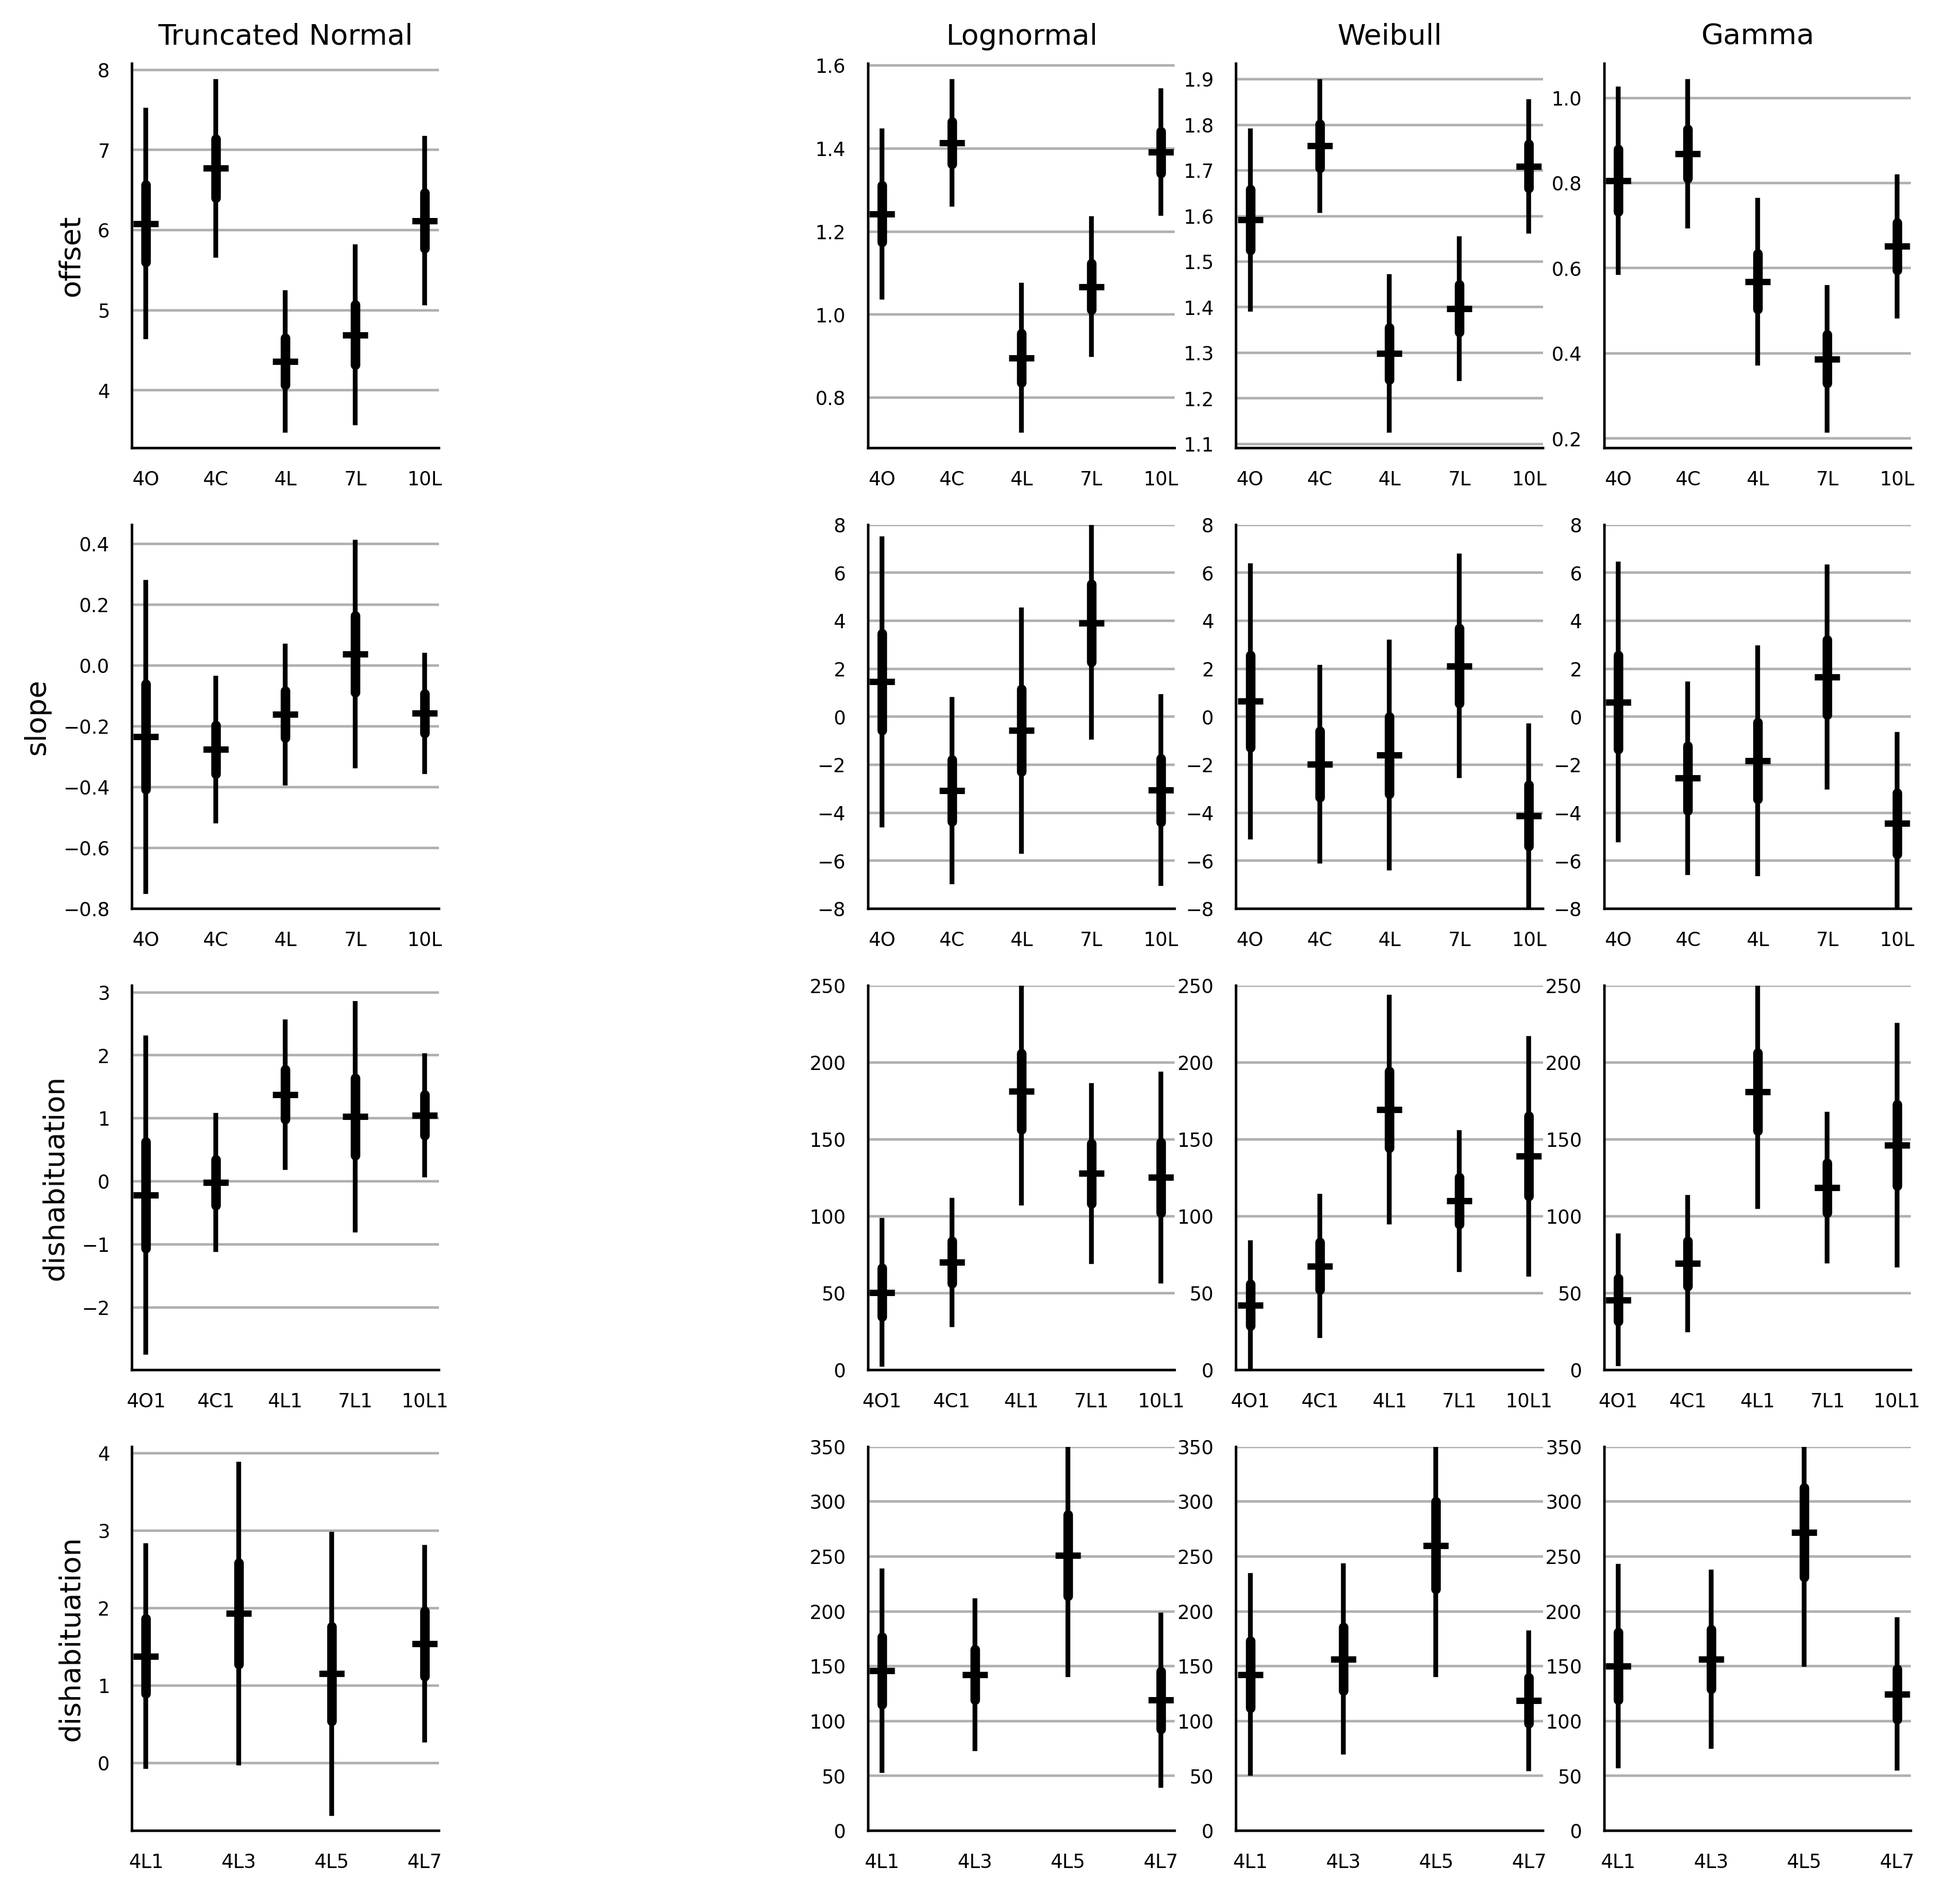
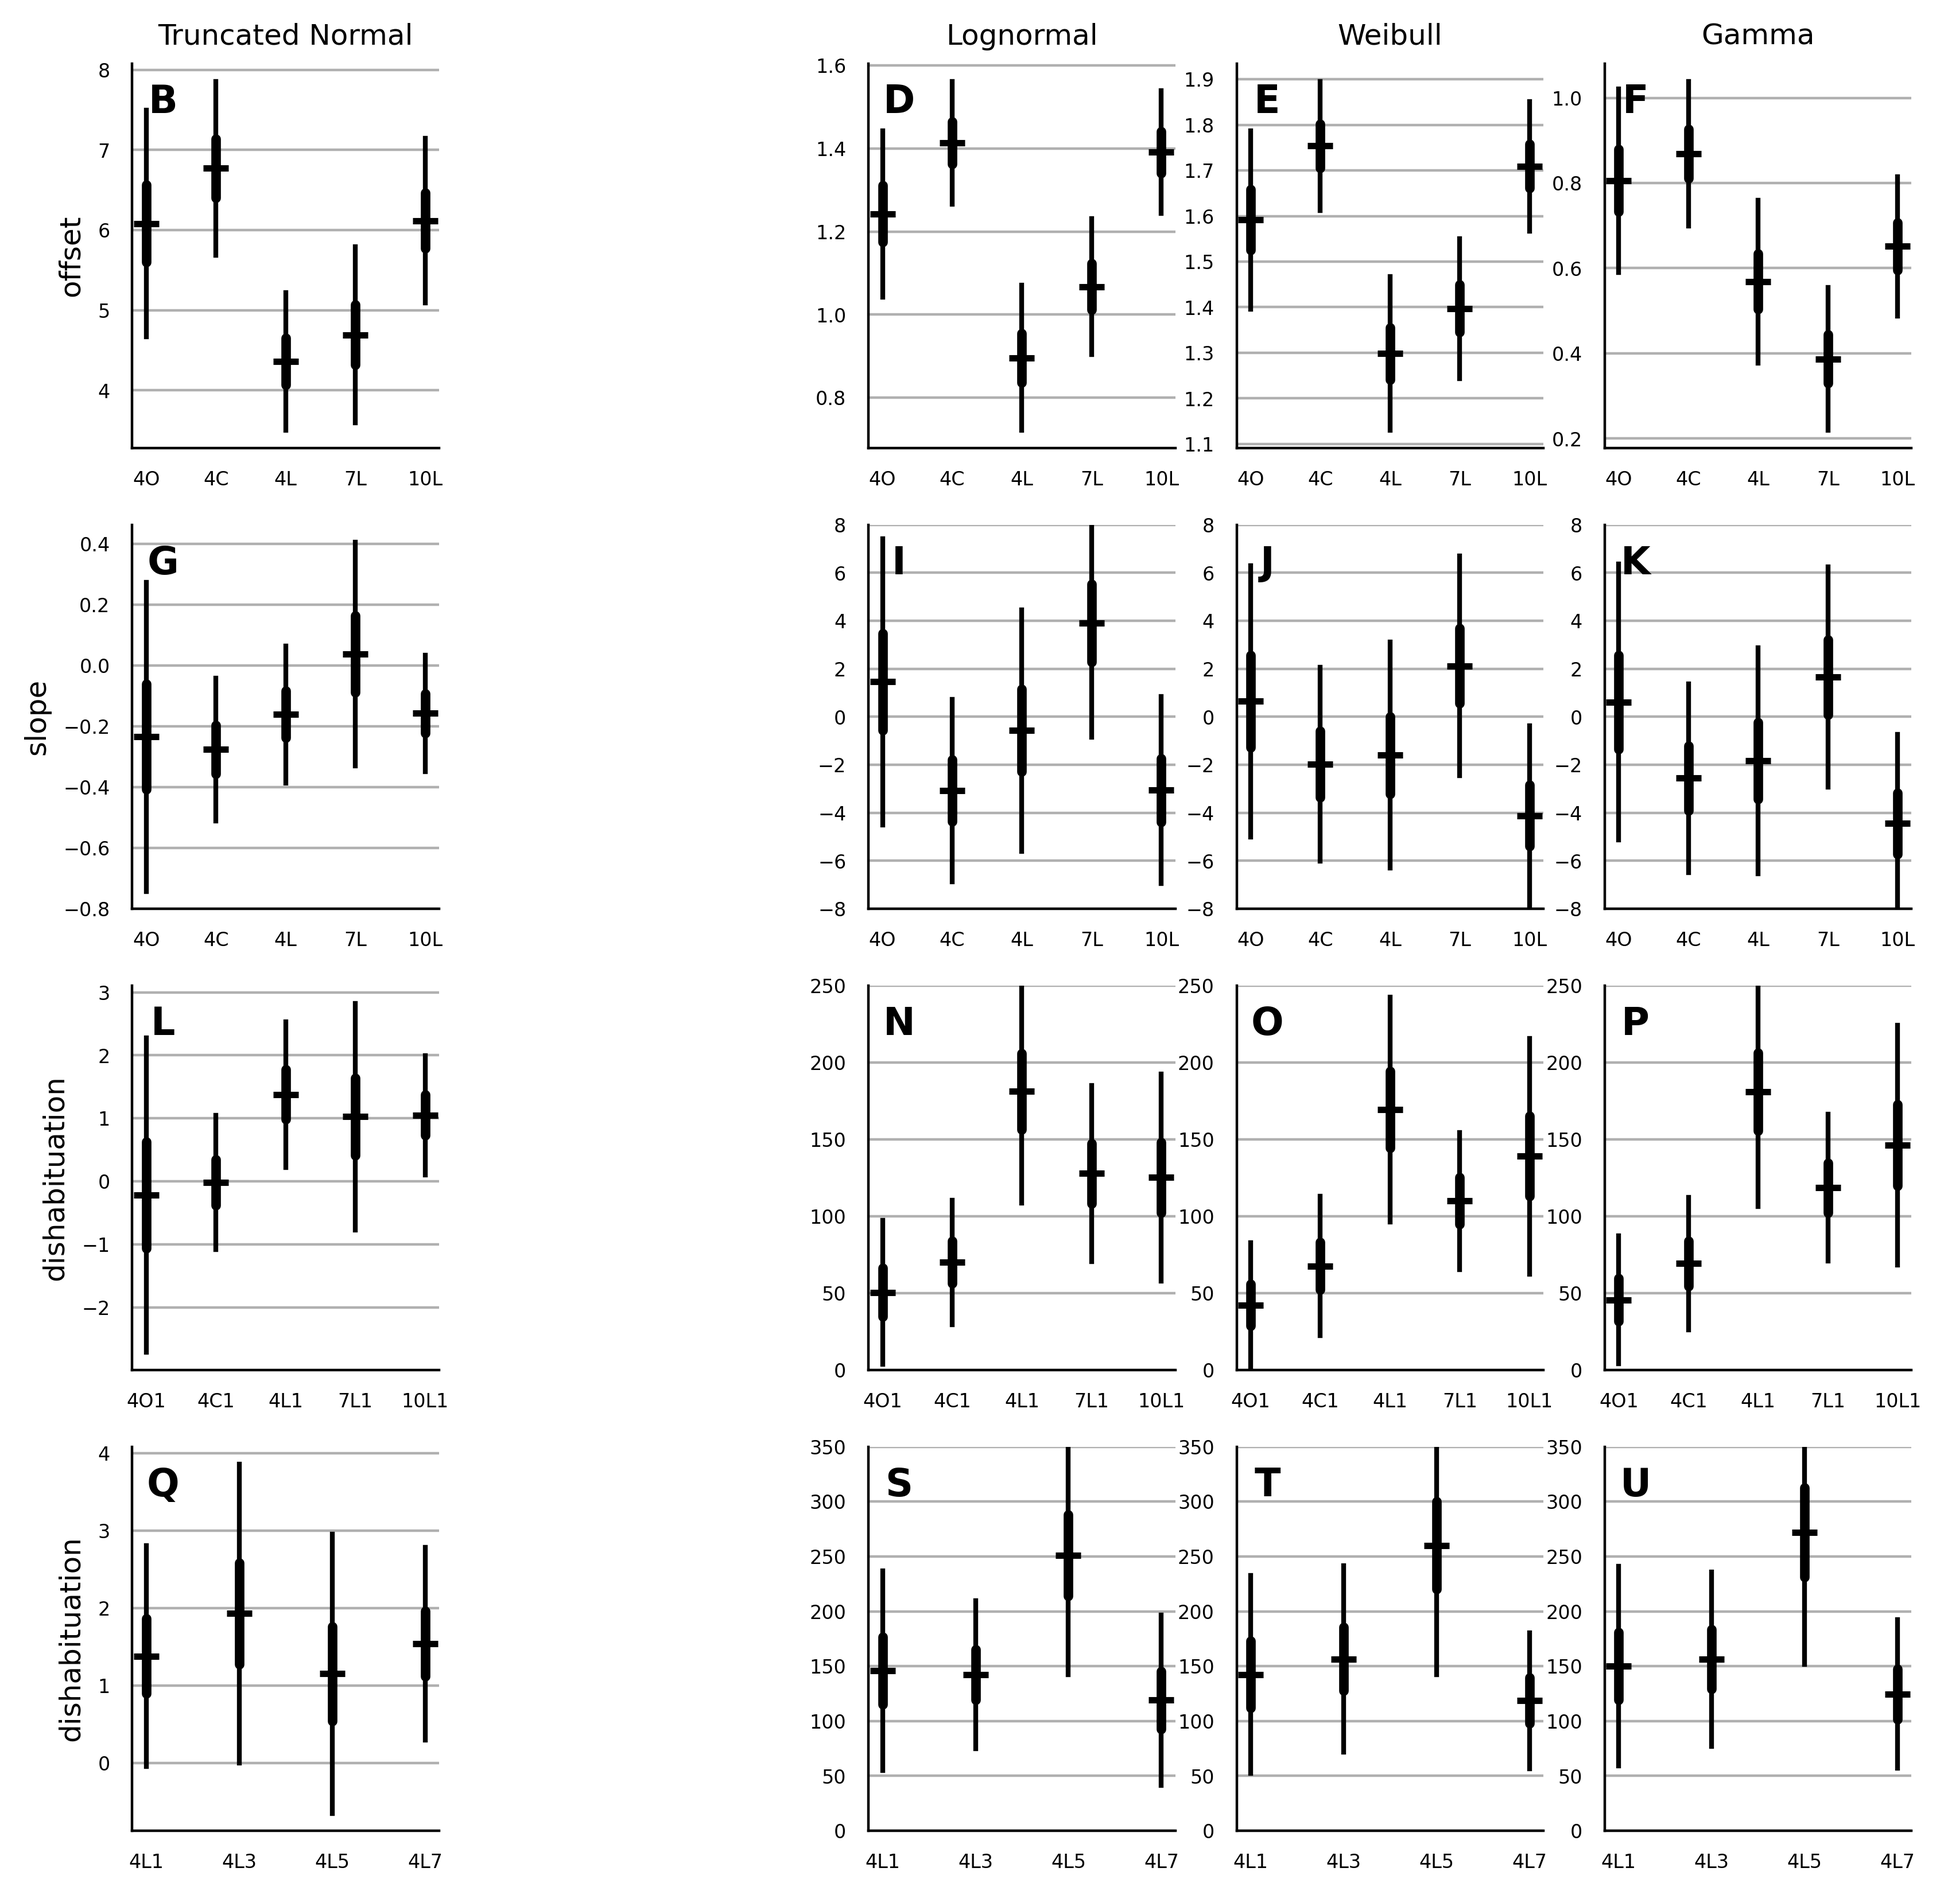
dn

diff --git a/code/Analysis.py b/code/Analysis.py
@@ -9,7 +9,7 @@ import pylab as plt
 from matusplotlib import errorbar,figure,subplot,ndarray2latextable,subplotAnnotate
 
 SEED=6
-DPI=400
+DPI=350
 
 def printCI(w,var=None,decimals=3):
     sfmt=' {:.{:d}f} [{:.{:d}f},{:.{:d}f}]'
@@ -687,6 +687,7 @@ def plotME(suf,avg=False,mask=[]):
             ax.set_xticks(range([5,4][i==3]))
             ax.set_xticklabels([['4O','4C','4L','7L','10L'],['4O','4C','4L','7L','10L'],['4O1','4C1','4L1','7L1','10L1'],['4L1','4L3','4L5','4L7']][i]);
             if not j:plt.ylabel(['offset','slope','dishabituation'][min(i,2)])
+            subplotAnnotate(fs=8)
     avg=int(avg)
     plt.savefig(FPATH+f'me{suf}.png',bbox_inches='tight',dpi=DPI)
 
@@ -794,10 +795,6 @@ def printConverged():
         print(ndarray2latextable(D,decim=0) )   
 
 if __name__=='__main__':
-    plotME('TN',avg=True)
-    plotME('MN',avg=True)
-    plotME('QP',avg=False,mask=[1,3,4])
-    plotME('TP',avg=False);bla
     # get data
     info,Dres=loadData()
     yLT,xAll=preprocessData(info,Dres) 

diff --git a/code/matusplotlib.py b/code/matusplotlib.py
@@ -202,7 +202,7 @@ def subplot(*args):
     formatAxes(ax)
     return ax
 
-def subplotAnnotate(loc='nw',nr=None,clr='k'):
+def subplotAnnotate(loc='nw',nr=None,clr='k',fs=12):
     if type(loc) is list and len(loc)==2: ofs=loc
     elif loc=='nw': ofs=[0.1,0.9]
     elif loc=='sw': ofs=[0.1,0.1]
@@ -214,7 +214,7 @@ def subplotAnnotate(loc='nw',nr=None,clr='k'):
     plt.text(plt.xlim()[0]+ofs[0]*(plt.xlim()[1]-plt.xlim()[0]),
             plt.ylim()[0]+ofs[1]*(plt.ylim()[1]-plt.ylim()[0]), 
             str(chr(65+nr)),horizontalalignment='center',verticalalignment='center',
-            fontdict={'weight':'bold'},fontsize=12,color=clr)
+            fontdict={'weight':'bold'},fontsize=fs,color=clr)
 
 def _errorbar(out,x,clr='k'):
     plt.plot([x,x],out[1:3],color=clr)
